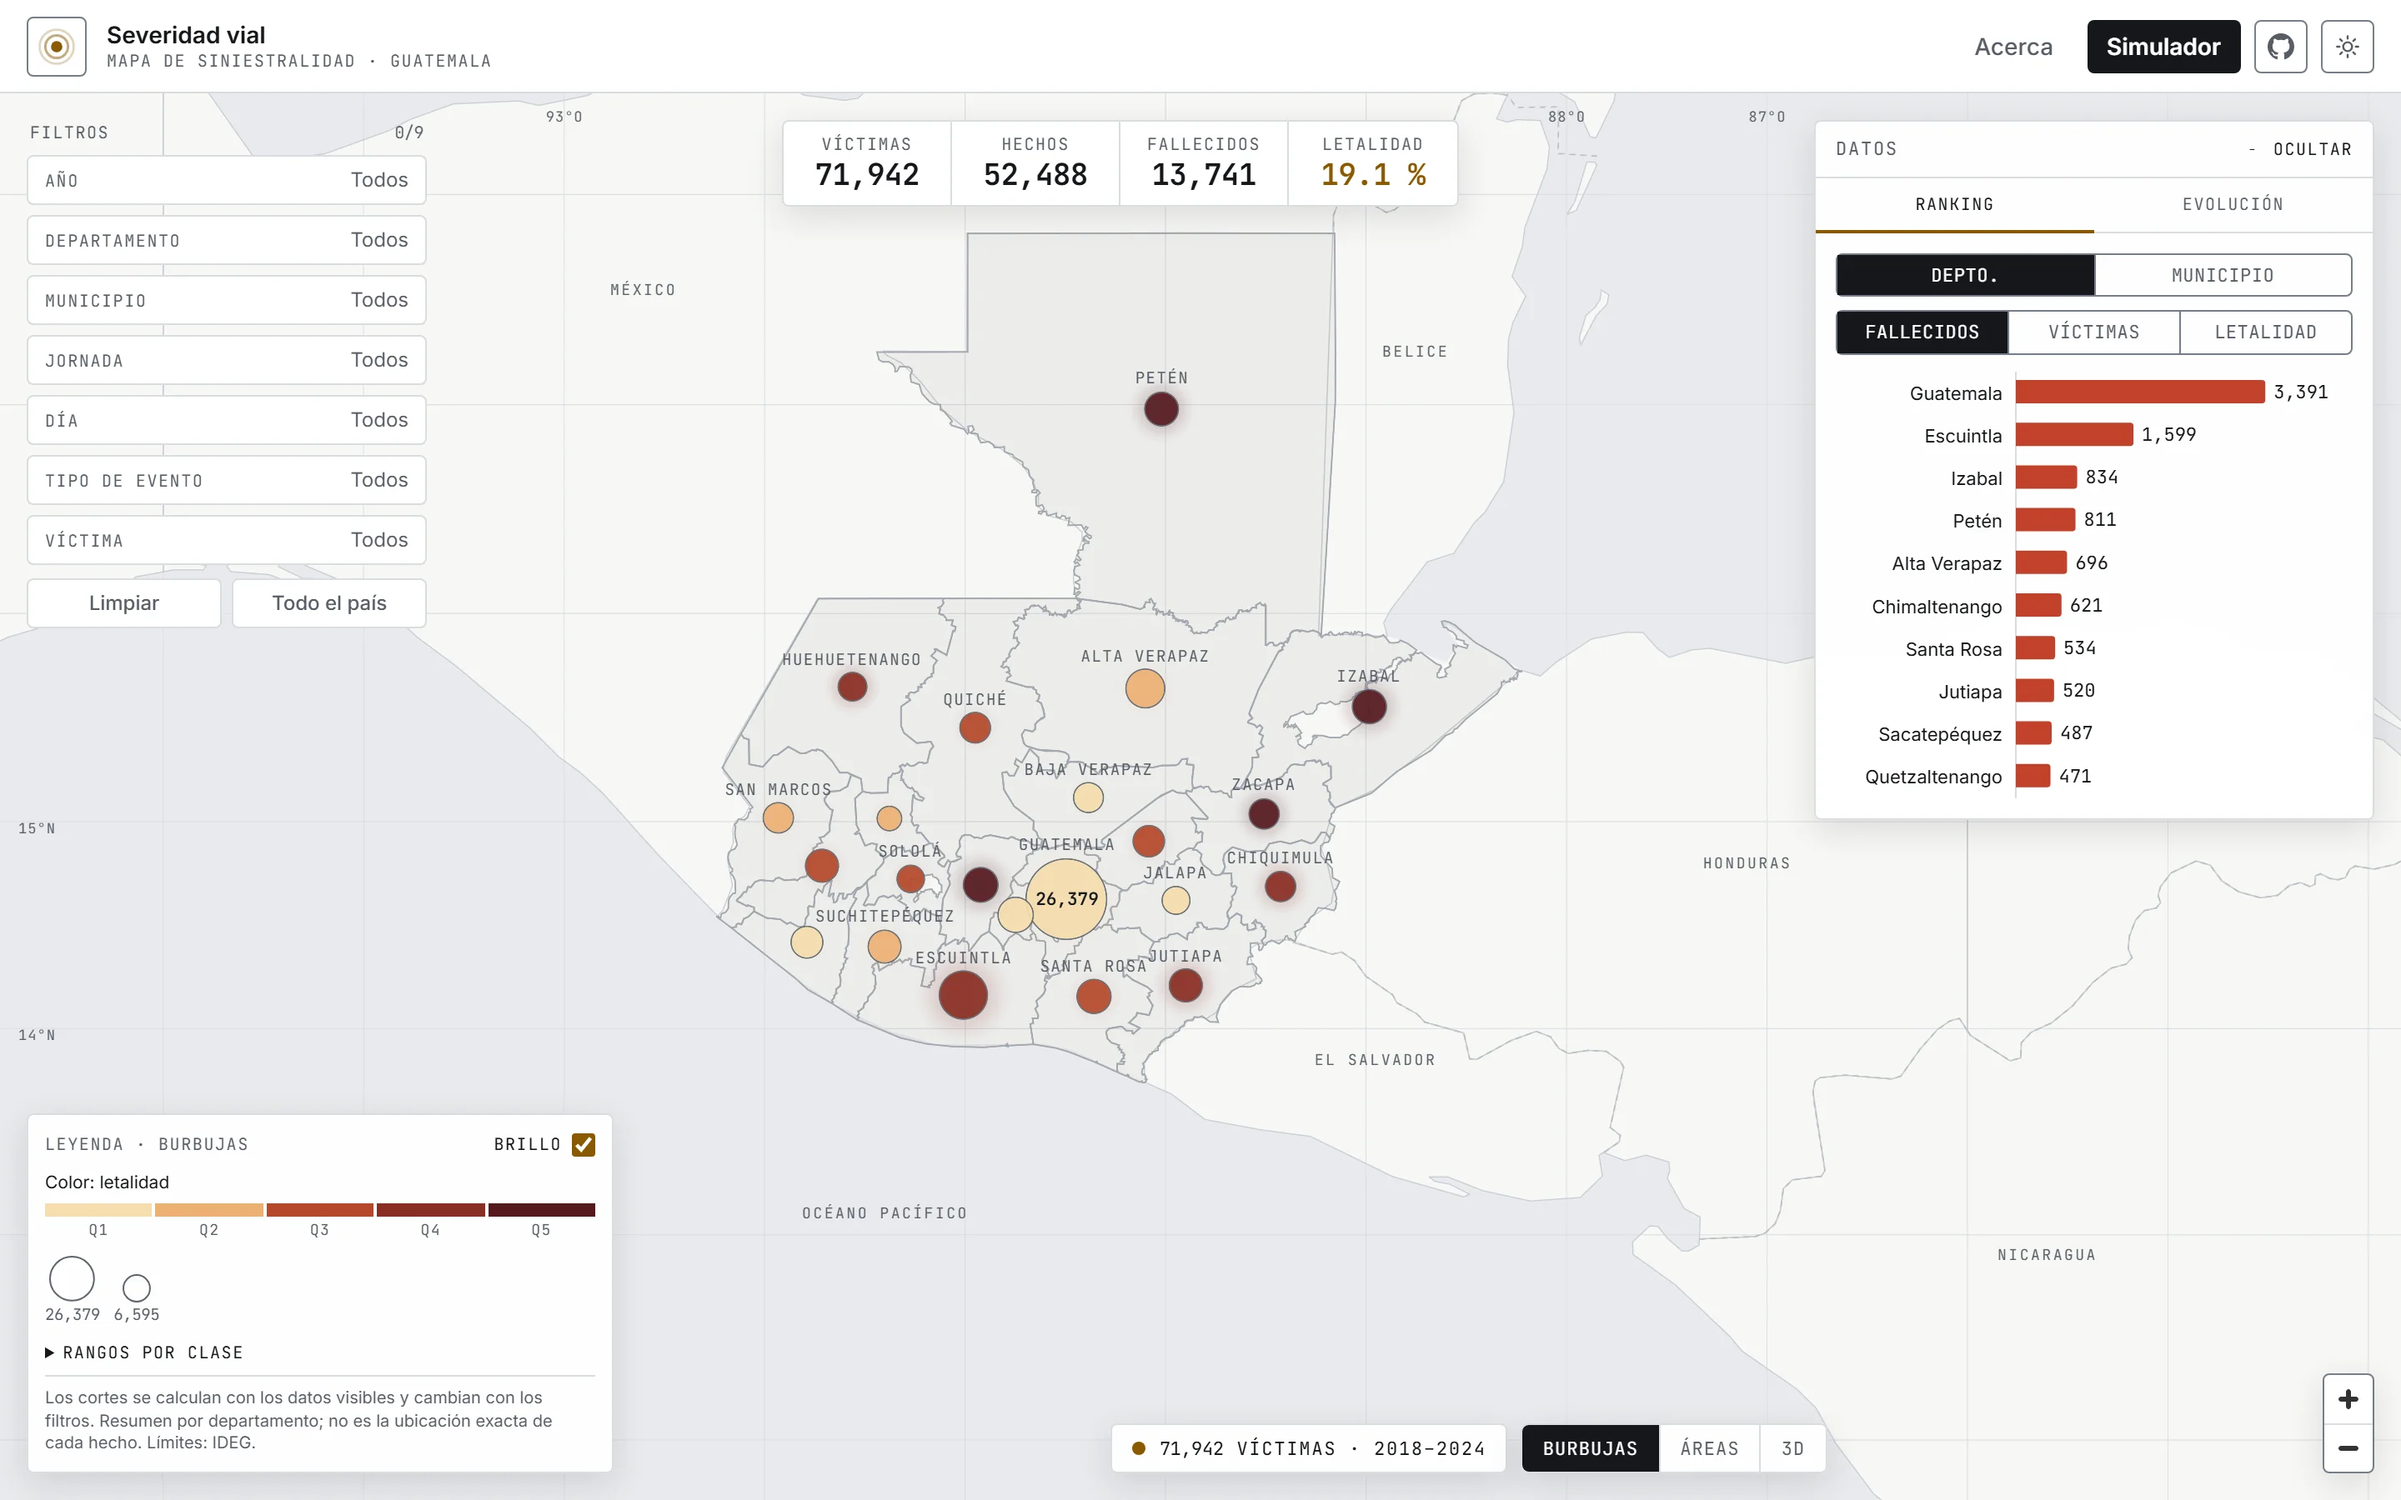
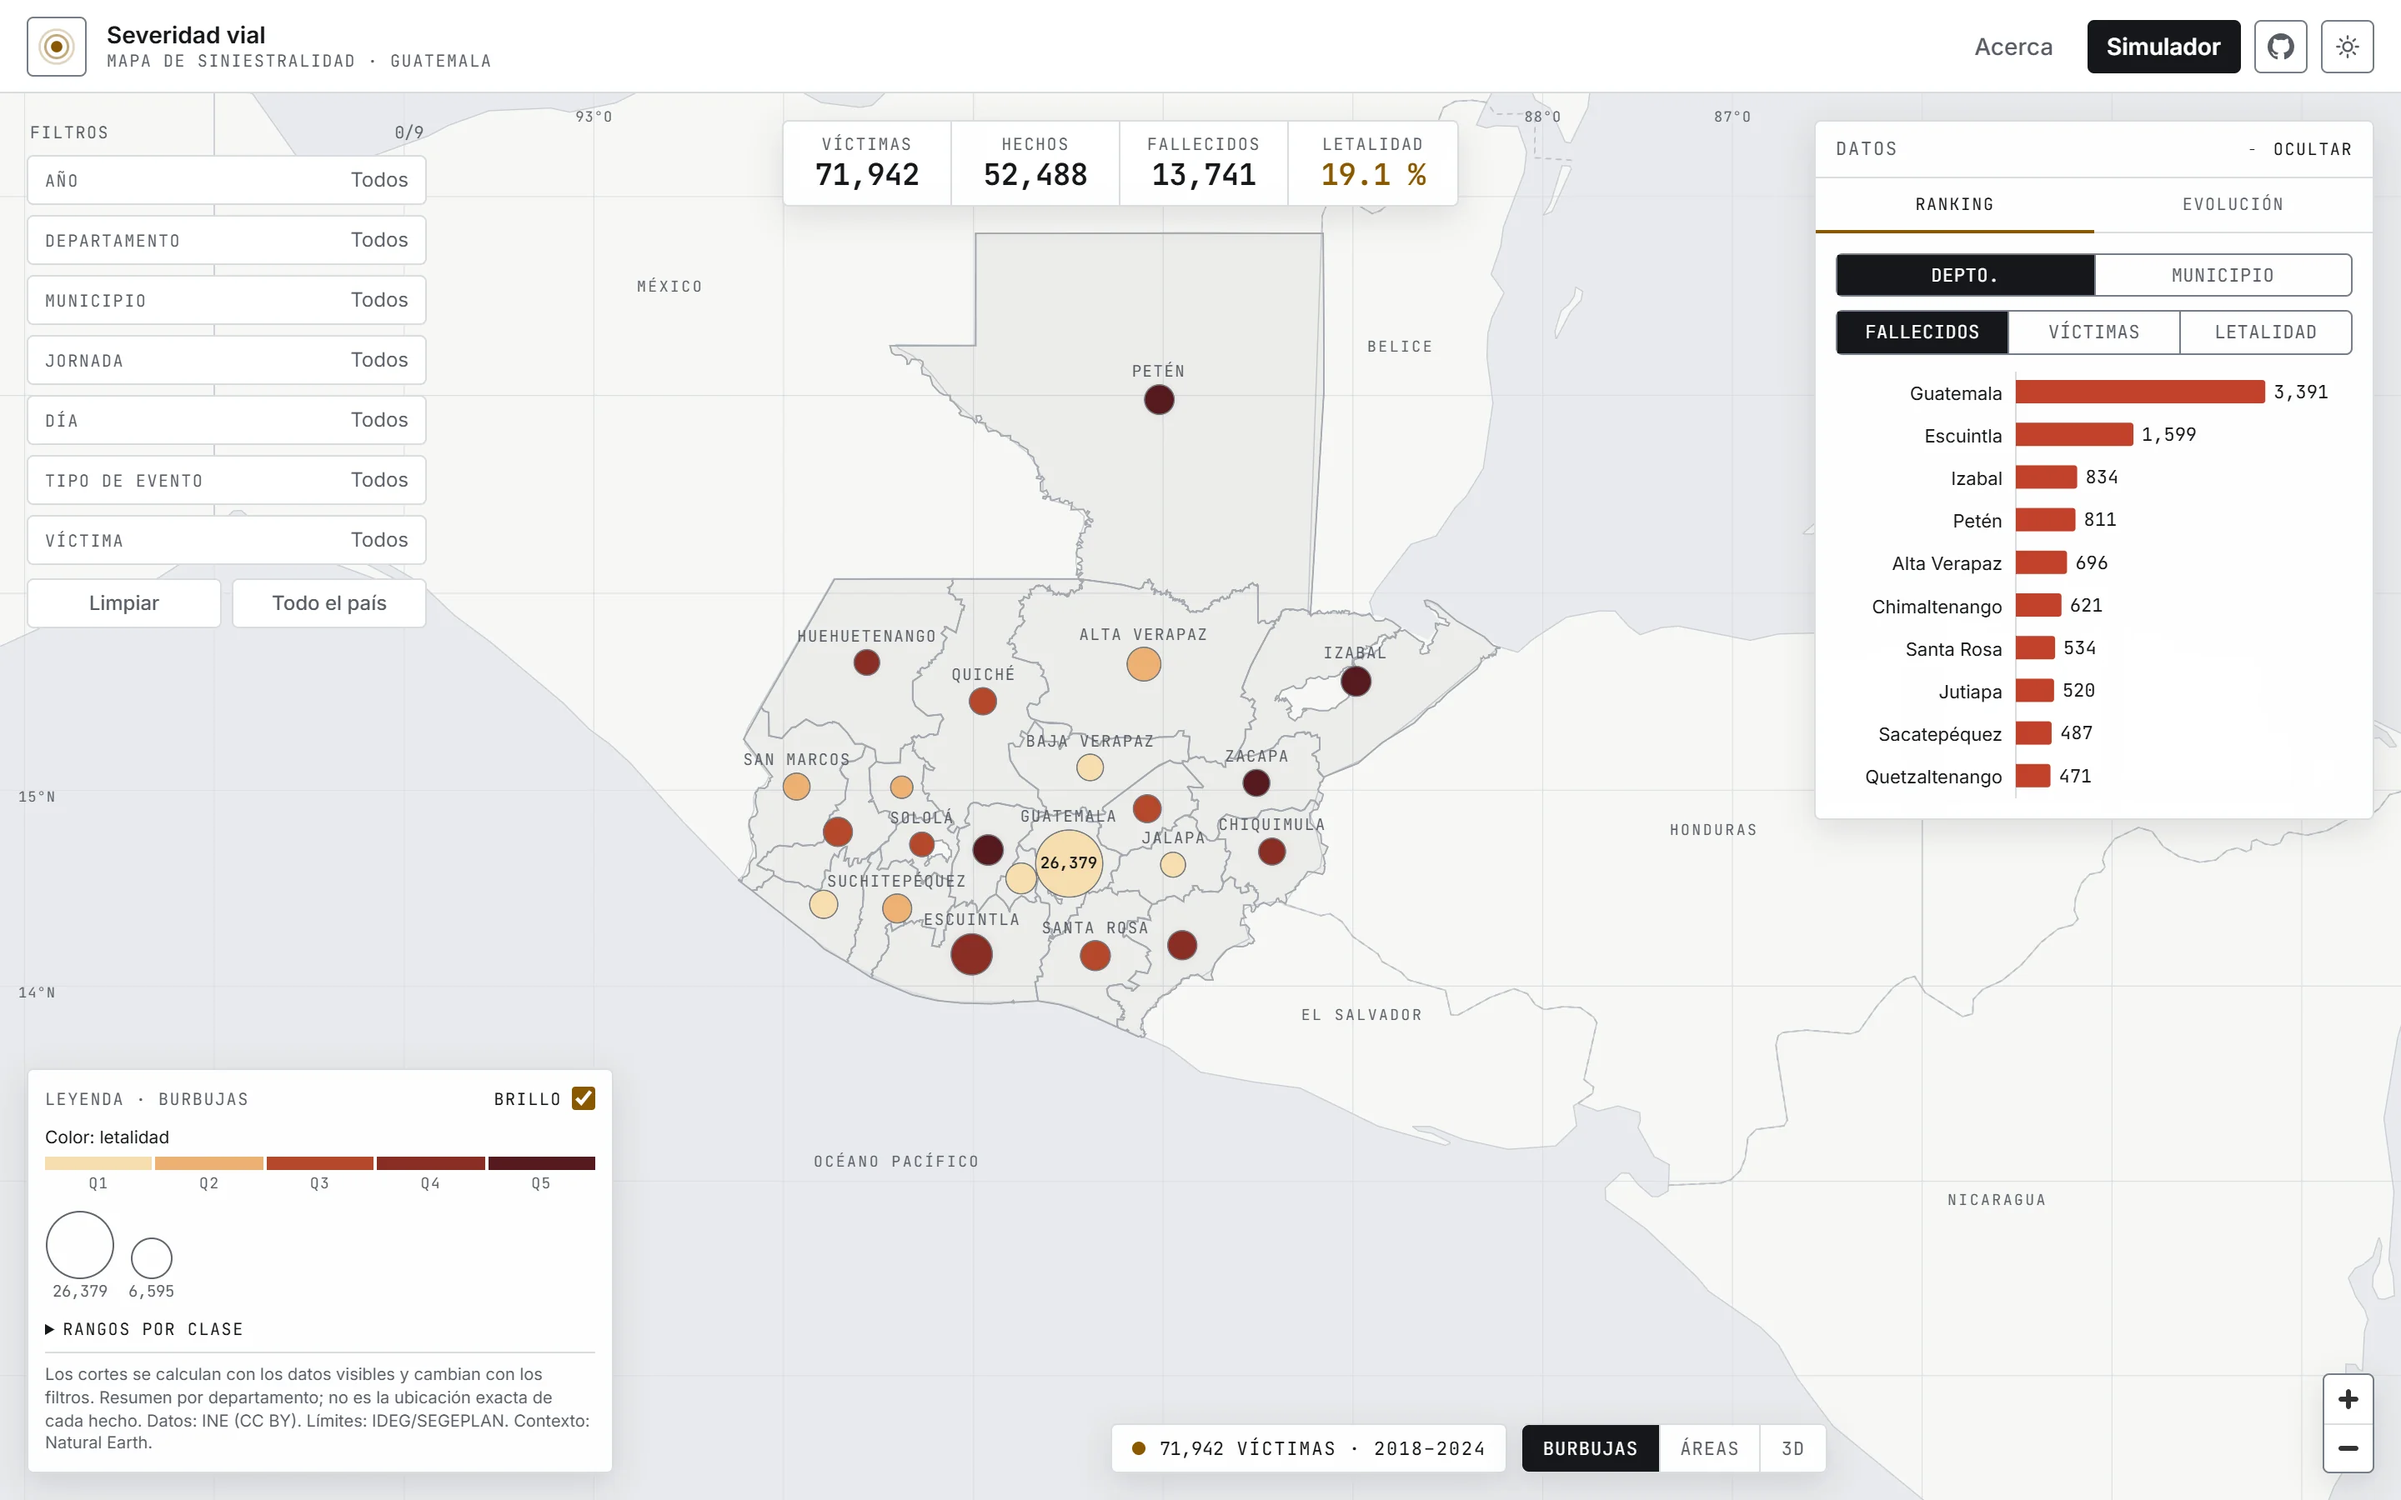
fix(maps): cap bubble size and keep labels and hover readable
- Lower the department bubble cap to 20 px on desktop (15 px on mobile):
  Guatemala no longer overlaps Sacatepéquez.
- Draw bubbles at full opacity without blur; add a thin semi-transparent
  border; make the glow subtler so it does not tint neighbours.
- Redraw the hovered bubble on top of all others with a thinner ring.
- Show the number inside a bubble only when it fits (9.5 px font).
- Legend size samples now use the same radius as the map.
- Update the map screenshots in docs/capturas.

diff --git a/frontend/src/components/mapa/MapaCoropletico.tsx b/frontend/src/components/mapa/MapaCoropletico.tsx
@@ -26,7 +26,7 @@ import { usePaleta, type Paleta } from '../../theme/tema'
 import type { PropiedadesMapa } from '../../utils/clasificacion'
 import { etiquetasVisibles, margenesLibres, type Lado } from '../../utils/espacio'
 import { formatoEntero, formatoNulo, formatoPorcentaje } from '../../utils/formato'
-import { cajaEnvolvente, centroide, radioBurbuja, radioMaximo } from '../../utils/geometria'
+import { RADIO_MINIMO_BURBUJA, cajaEnvolvente, centroide, radioBurbuja, radioMaximo } from '../../utils/geometria'
 import { ErrorCarga } from '../ui/Estados'
 import { useClasificacionMapa } from './useClasificacionMapa'
 // Contexto: Natural Earth (dominio público), recortado con scripts/contexto_natural_earth.py.
@@ -41,7 +41,19 @@ type Caja4 = [number, number, number, number]
 const GUATEMALA: Caja4 = [-92.25, 13.72, -88.2, 17.82]
 const PITCH_3D = 50
 const RADIO_CIFRA = 15 // radio mínimo (px) para escribir la cifra dentro
+const TAMANO_CIFRA = 9.5 // px; igual que .cifra-burbuja en index.css
+const BORDE_FRENTE = 1.25 // px, contorno de la burbuja bajo el cursor
 const SEPARACION_ETIQUETA = 8
+
+/**
+ * La cifra solo se escribe si cabe entera dentro de la burbuja, sin tocar el
+ * contorno de hover (JetBrains Mono: cada carácter mide 0.6 em).
+ */
+function cabeCifra(texto: string, radio: number): boolean {
+  const mitadAncho = (texto.length * 0.6 * TAMANO_CIFRA) / 2
+  const mitadAlto = TAMANO_CIFRA * 0.6
+  return radio >= RADIO_CIFRA && Math.hypot(mitadAncho, mitadAlto) <= radio - BORDE_FRENTE - 0.5
+}
 
 const CAPAS_INTERACTIVAS: Record<Vista, string[]> = {
   burbujas: ['burbujas', 'areas-relleno'],
@@ -248,7 +260,7 @@ export function MapaCoropletico() {
             properties: {
               ...f.properties,
               // Raíz cuadrada con tope (radioMax): la mayor no tapa a sus vecinas
-              radio: radioBurbuja(f.properties.total, maxTotal, 4, radioMax),
+              radio: radioBurbuja(f.properties.total, maxTotal, RADIO_MINIMO_BURBUJA, radioMax),
               // Halo más intenso en los dos grupos más altos (quintiles 4 y 5)
               intenso: k >= 2 && f.properties.clase >= k - 1,
             },
@@ -480,16 +492,30 @@ export function MapaCoropletico() {
         layout: { 'circle-sort-key': ordenRadio },
         paint: { 'circle-color': ['get', 'color'], 'circle-blur': 0.8 },
       })
+      // Opacidad 1: el color de la letalidad no se mezcla con lo que hay debajo
+      const pinturaBurbuja = {
+        'circle-radius': ['case', sinVictimas, 2.5, ['get', 'radio']] as ExpressionSpecification,
+        'circle-color': ['case', sinVictimas, paleta.mapNullDot, ['get', 'color']] as ExpressionSpecification,
+        'circle-opacity': 1,
+      }
       mapa.addLayer({
         id: 'burbujas',
         type: 'circle',
         source: 'burbujas',
         layout: { 'circle-sort-key': ordenRadio },
+        paint: { ...pinturaBurbuja, 'circle-stroke-color': paleta.mapBubbleStroke },
+      })
+      // La burbuja bajo el cursor se vuelve a dibujar encima de todas, aunque sea
+      // pequeña o quede debajo de otra, con un contorno fino
+      mapa.addLayer({
+        id: 'burbujas-frente',
+        type: 'circle',
+        source: 'burbujas',
+        filter: ['==', ['get', 'codigo'], -1],
         paint: {
-          'circle-radius': ['case', sinVictimas, 2.5, ['get', 'radio']],
-          'circle-color': ['case', sinVictimas, paleta.mapNullDot, ['get', 'color']],
-          'circle-opacity': 0.92,
-          'circle-stroke-color': ['case', HOVER, paleta.mapHover, paleta.mapBubbleStroke],
+          ...pinturaBurbuja,
+          'circle-stroke-color': paleta.mapHover,
+          'circle-stroke-width': BORDE_FRENTE,
         },
       })
 
@@ -501,6 +527,7 @@ export function MapaCoropletico() {
           if (hoverId !== null) mapa.setFeatureState({ source, id: hoverId }, { hover: false })
           if (id !== null) mapa.setFeatureState({ source, id }, { hover: true })
         }
+        mapa.setFilter('burbujas-frente', ['==', ['get', 'codigo'], id ?? -1])
         hoverId = id
       }
 
@@ -633,6 +660,7 @@ export function MapaCoropletico() {
     const visible = (capa: string, si: boolean) => mapa.setLayoutProperty(capa, 'visibility', si ? 'visible' : 'none')
 
     visible('burbujas', vista === 'burbujas')
+    visible('burbujas-frente', vista === 'burbujas')
     visible('areas-relleno', vista !== '3d')
     visible('areas-sin-victimas', vista === 'areas')
     visible('areas-3d', vista === '3d')
@@ -665,24 +693,21 @@ export function MapaCoropletico() {
     const intenso: ExpressionSpecification = ['==', ['get', 'intenso'], true]
 
     mapa.setLayoutProperty('burbujas-halo', 'visibility', activo ? 'visible' : 'none')
-    // En móvil el halo se reduce (menos píxeles difuminados que dibujar)
+    // Halo sutil: apenas sobresale de la burbuja y no tiñe a las vecinas; en
+    // móvil, aún más corto (menos píxeles difuminados que dibujar)
     mapa.setPaintProperty('burbujas-halo', 'circle-radius', [
       '*',
       ['get', 'radio'],
-      ['case', intenso, movil ? 1.6 : 2.2, movil ? 1.3 : 1.8],
+      ['case', intenso, movil ? 1.3 : 1.5, movil ? 1.15 : 1.3],
     ])
-    mapa.setPaintProperty('burbujas-halo', 'circle-opacity', claro ? ['case', intenso, 0.22, 0.1] : ['case', intenso, 0.42, movil ? 0.12 : 0.25])
+    mapa.setPaintProperty('burbujas-halo', 'circle-opacity', claro ? ['case', intenso, 0.12, 0.06] : ['case', intenso, 0.22, 0.12])
 
-    mapa.setPaintProperty('burbujas', 'circle-blur', activo && !claro ? 0.3 : 0)
-    mapa.setPaintProperty('burbujas', 'circle-stroke-width', [
-      'case',
-      HOVER,
-      2,
-      ['==', ['get', 'clase'], 0],
-      0,
-      activo && !claro ? 0.5 : 0.8,
-    ])
-    mapa.setPaintProperty('burbujas', 'circle-stroke-opacity', ['case', HOVER, 1, activo && !claro ? 0.35 : 0.9])
+    // Bordes nítidos (sin difuminar la burbuja) y un contorno fino y
+    // semitransparente que separa las burbujas que se tocan; en tema claro un
+    // poco más opaco, porque las clases claras se apoyan en él
+    mapa.setPaintProperty('burbujas', 'circle-blur', 0)
+    mapa.setPaintProperty('burbujas', 'circle-stroke-width', ['case', ['==', ['get', 'clase'], 0], 0, 0.75])
+    mapa.setPaintProperty('burbujas', 'circle-stroke-opacity', claro ? 0.85 : 0.6)
   }, [listo, vista, brillo, paleta])
 
   // -- Encuadre automático (filtros, "volver", enlaces compartidos) --------
@@ -757,14 +782,16 @@ export function MapaCoropletico() {
       etiquetas.current.push({ marcador, elemento: el, lngLat, burbuja: -1, radio: -SEPARACION_ETIQUETA })
     }
 
-    // Cifras nítidas dentro de las burbujas grandes (HTML, sin difuminado)
+    // Cifras nítidas dentro de las burbujas grandes (HTML, sin difuminado),
+    // solo si caben enteras: así el contorno de hover nunca las corta
     if (vista === 'burbujas' && capas) {
       for (const f of capas.burbujas.features) {
         const p = f.properties as PropiedadesMapa & { radio: number }
-        if (p.clase === 0 || p.radio < RADIO_CIFRA) continue
+        const texto = formatoEntero(p.total)
+        if (p.clase === 0 || !cabeCifra(texto, p.radio)) continue
         const el = document.createElement('span')
         el.className = 'cifra-burbuja'
-        el.textContent = formatoEntero(p.total)
+        el.textContent = texto
         el.style.color = p.clase <= 2 ? paleta.mapCifraBaja : paleta.mapCifraAlta
         nuevo(f.geometry.coordinates as [number, number], el)
       }

diff --git a/frontend/src/utils/geometria.ts b/frontend/src/utils/geometria.ts
@@ -108,6 +108,9 @@ export function cajaEnvolvente(coleccion: { features: { geometry: GeoJSON.Geomet
   return Number.isFinite(oeste) ? [oeste, sur, este, norte] : null
 }
 
+/** Radio mínimo (px) de las burbujas del mapa; la leyenda usa el mismo. */
+export const RADIO_MINIMO_BURBUJA = 4
+
 /** Radio de burbuja proporcional a la raíz cuadrada del valor (área ∝ valor). */
 export function radioBurbuja(valor: number, maximo: number, minimo = 6, maximoPx = 36): number {
   if (valor <= 0 || maximo <= 0) return 0
@@ -116,9 +119,11 @@ export function radioBurbuja(valor: number, maximo: number, minimo = 6, maximoPx
 
 /**
  * Tope del radio de burbuja (px) según nivel y ancho de pantalla: con la raíz
- * cuadrada, la mayor (Guatemala) llega al tope sin tapar a sus vecinas.
+ * cuadrada, la mayor (Guatemala) llega al tope sin tapar a sus vecinas. A
+ * nivel nacional, 20 px en escritorio deja a Guatemala y Sacatepéquez (las
+ * más cercanas, ~30 px entre centroides) sin solaparse.
  */
 export function radioMaximo(nivel: Nivel): number {
   const pequena = typeof window.matchMedia === 'function' && window.matchMedia('(max-width: 639px)').matches
-  return nivel === 'depto' ? (pequena ? 17 : 24) : pequena ? 14 : 20
+  return nivel === 'depto' ? (pequena ? 15 : 20) : pequena ? 14 : 20
 }

diff --git a/frontend/src/components/mapa/Leyenda.tsx b/frontend/src/components/mapa/Leyenda.tsx
@@ -2,7 +2,7 @@ import { useMapaUi } from '../../state/mapaUi'
 import { usePaleta } from '../../theme/tema'
 import type { Metrica } from '../../utils/clasificacion'
 import { formatoEntero, formatoPorcentaje } from '../../utils/formato'
-import { radioBurbuja, radioMaximo } from '../../utils/geometria'
+import { RADIO_MINIMO_BURBUJA, radioBurbuja, radioMaximo } from '../../utils/geometria'
 import { Segmentado } from '../ui/Segmentado'
 import { useClasificacionMapa } from './useClasificacionMapa'
 
@@ -86,7 +86,8 @@ export function Leyenda({ ancho = 'w-[22rem]' }: { ancho?: string }) {
         {vista === 'burbujas' && muestras.length > 0 && (
           <div className="flex items-end gap-2" role="img" aria-label={`Tamaño: víctimas (${muestras.map(formatoEntero).join(' y ')})`}>
             {muestras.map((valor) => {
-              const r = radioBurbuja(valor, maxTotal, 5, radioMax) * 0.55
+              // Mismo radio que en el mapa (radioBurbuja con los mismos parámetros)
+              const r = radioBurbuja(valor, maxTotal, RADIO_MINIMO_BURBUJA, radioMax)
               return (
                 <span key={valor} className="flex flex-col items-center">
                   <svg width={r * 2 + 2} height={r * 2 + 2} aria-hidden="true">

diff --git a/frontend/src/index.css b/frontend/src/index.css
@@ -198,7 +198,7 @@
   .cifra-burbuja {
     pointer-events: none;
     font-family: var(--font-mono);
-    font-size: 10.5px;
+    font-size: 9.5px; /* TAMANO_CIFRA en MapaCoropletico.tsx */
     font-weight: 600;
     font-variant-numeric: tabular-nums;
   }
